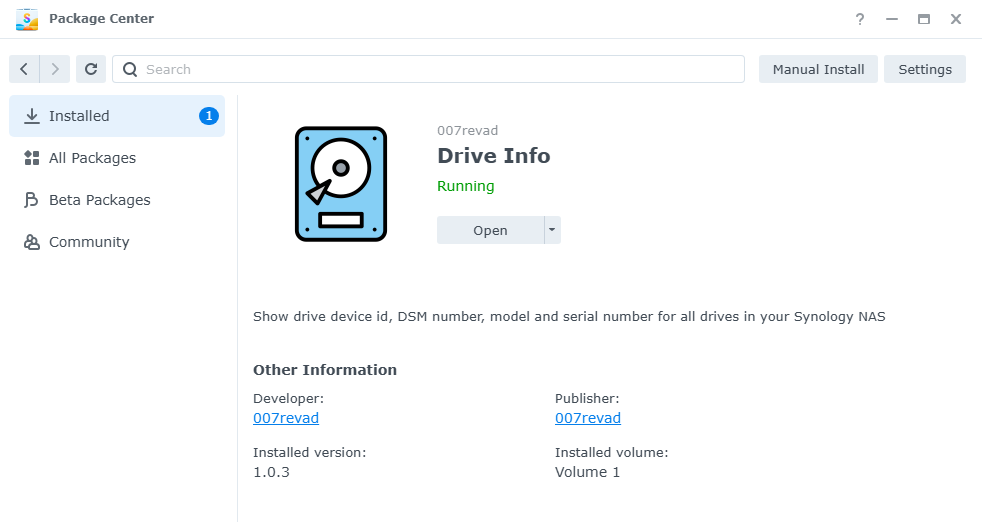
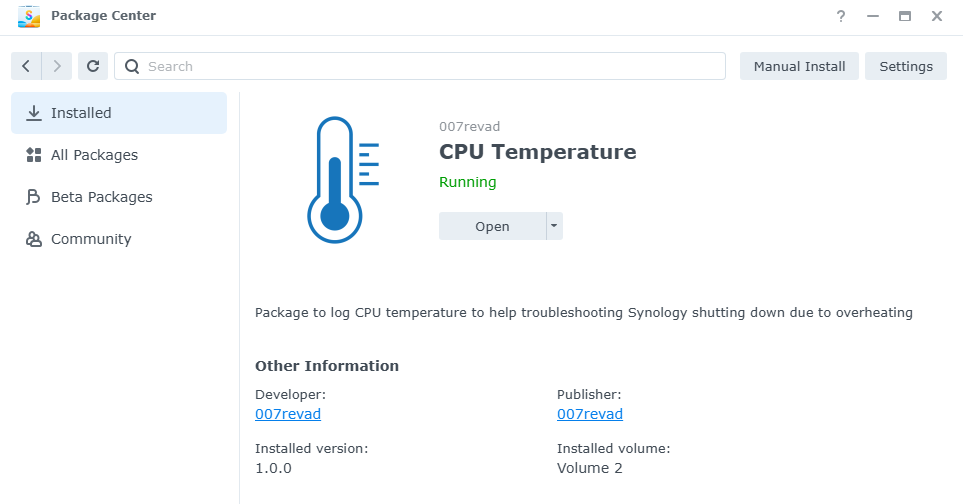
v1.0.1 BETA
- Updated icon and images.
- Fixed permissions.md
- Updated syno_cpu_temp.sh
- Fixed execute permission setting in postinst

diff --git a/set_package_permissions.md b/set_package_permissions.md
@@ -9,10 +9,10 @@ sudo -i
 pkg=CPUTemp
 file=/etc/sudoers.d/CPUTemp
 script=/var/packages/CPUTemp/target/bin/cpu_temp_api.sh
-echo "$pkg ALL=(root) NOPASSWD: $script" run >> "$file"
-echo "$pkg ALL=(root) NOPASSWD: $script" getlog >> "$file"
-echo "$pkg ALL=(root) NOPASSWD: $script" getsettings >> "$file"
-echo "$pkg ALL=(root) NOPASSWD: $script" setsettings * >> "$file"
+echo "$pkg ALL=(root) NOPASSWD: $script run" > "$file"
+echo "$pkg ALL=(root) NOPASSWD: $script getlog" >> "$file"
+echo "$pkg ALL=(root) NOPASSWD: $script getsettings" >> "$file"
+echo "$pkg ALL=(root) NOPASSWD: $script setsettings *" >> "$file"
 chmod 0440 "$file"
 cat "$file"
 ```
@@ -30,10 +30,10 @@ cat "$file"
     pkg=CPUTemp
     file=/etc/sudoers.d/CPUTemp
     script=/var/packages/CPUTemp/target/bin/cpu_temp_api.sh
-    echo "$pkg ALL=(root) NOPASSWD: $script" run >> "$file"
-    echo "$pkg ALL=(root) NOPASSWD: $script" getlog >> "$file"
-    echo "$pkg ALL=(root) NOPASSWD: $script" getsettings >> "$file"
-    echo "$pkg ALL=(root) NOPASSWD: $script" setsettings * >> "$file"
+    echo "$pkg ALL=(root) NOPASSWD: $script run" > "$file"
+    echo "$pkg ALL=(root) NOPASSWD: $script getlog" >> "$file"
+    echo "$pkg ALL=(root) NOPASSWD: $script getsettings" >> "$file"
+    echo "$pkg ALL=(root) NOPASSWD: $script "setsettings *" >> "$file"
     chmod 0440 "$file"
     cat "$file"
     ```
